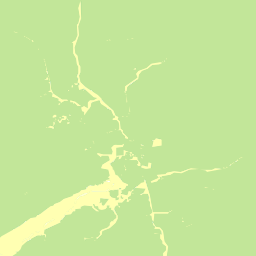
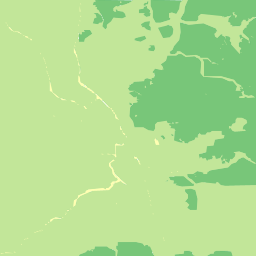
Forecast Map Color, Latest Data,

diff --git a/src/ForecastMap.jsx b/src/ForecastMap.jsx
@@ -34,7 +34,7 @@ const ForecastMap = () => {
         .attr("transform", `translate(${margin.left},${margin.top})`)
 
       // Updated color scale
-      const color = d3.scaleLinear().domain([d3.min(values), d3.max(values)]).range(["#C0E49A", "#FD8C3C"])
+      const color = d3.scaleLinear().domain([d3.min(values), d3.max(values)]).range(["#C0E49A", "#FFFFB5"])
 
       // Define X-axis with hours 1 to 12
       const hours = Array.from({ length: 12 }, (_, i) => i + 0) // Generates hours from 1 to 12

diff --git a/src/css/App.css b/src/css/App.css
@@ -5,7 +5,9 @@ body {
 .container {
   display: flex;
   flex-direction: row; /* Default layout for larger screens */
-  position: relative; /* Set position relative for the parent container */
+  position: relative;
+  overflow-x: hidden;
+  overflow-y: hidden; /* Set position relative for the parent container */
 }
 
 .left-container {

diff --git a/src/css/Sidebar.css b/src/css/Sidebar.css
@@ -1,9 +1,10 @@
 .sidebar-container {
   display: flex;
+  height: 90vh;
   flex-direction: column;
   background-color: rgb(255, 255, 255);
   padding: 0px 10px;
-  overflow-x: hidden;
+  overflow-y: auto;
 }
 .heading-container {
   padding: 0;
